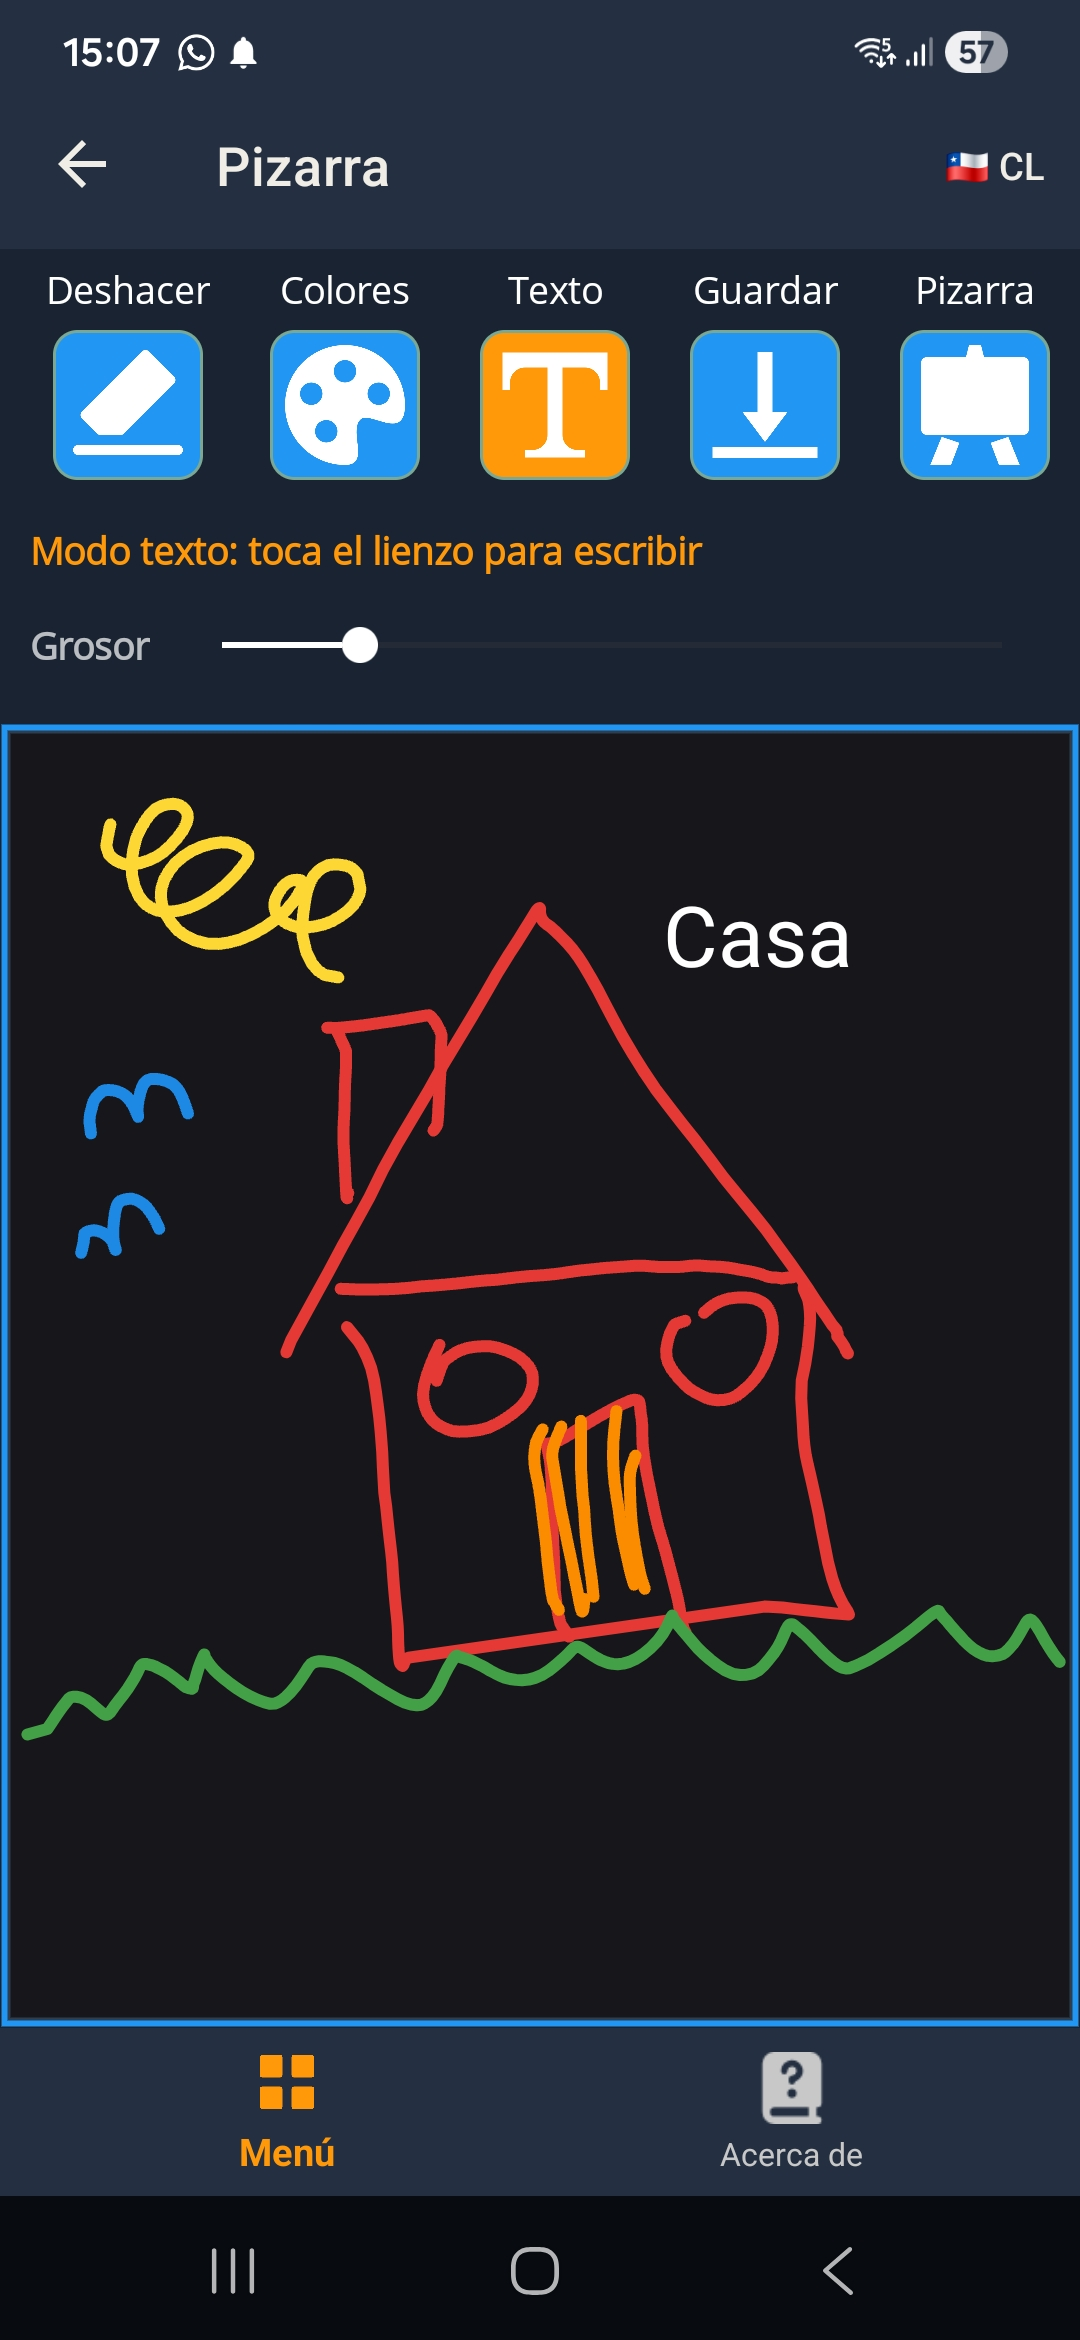
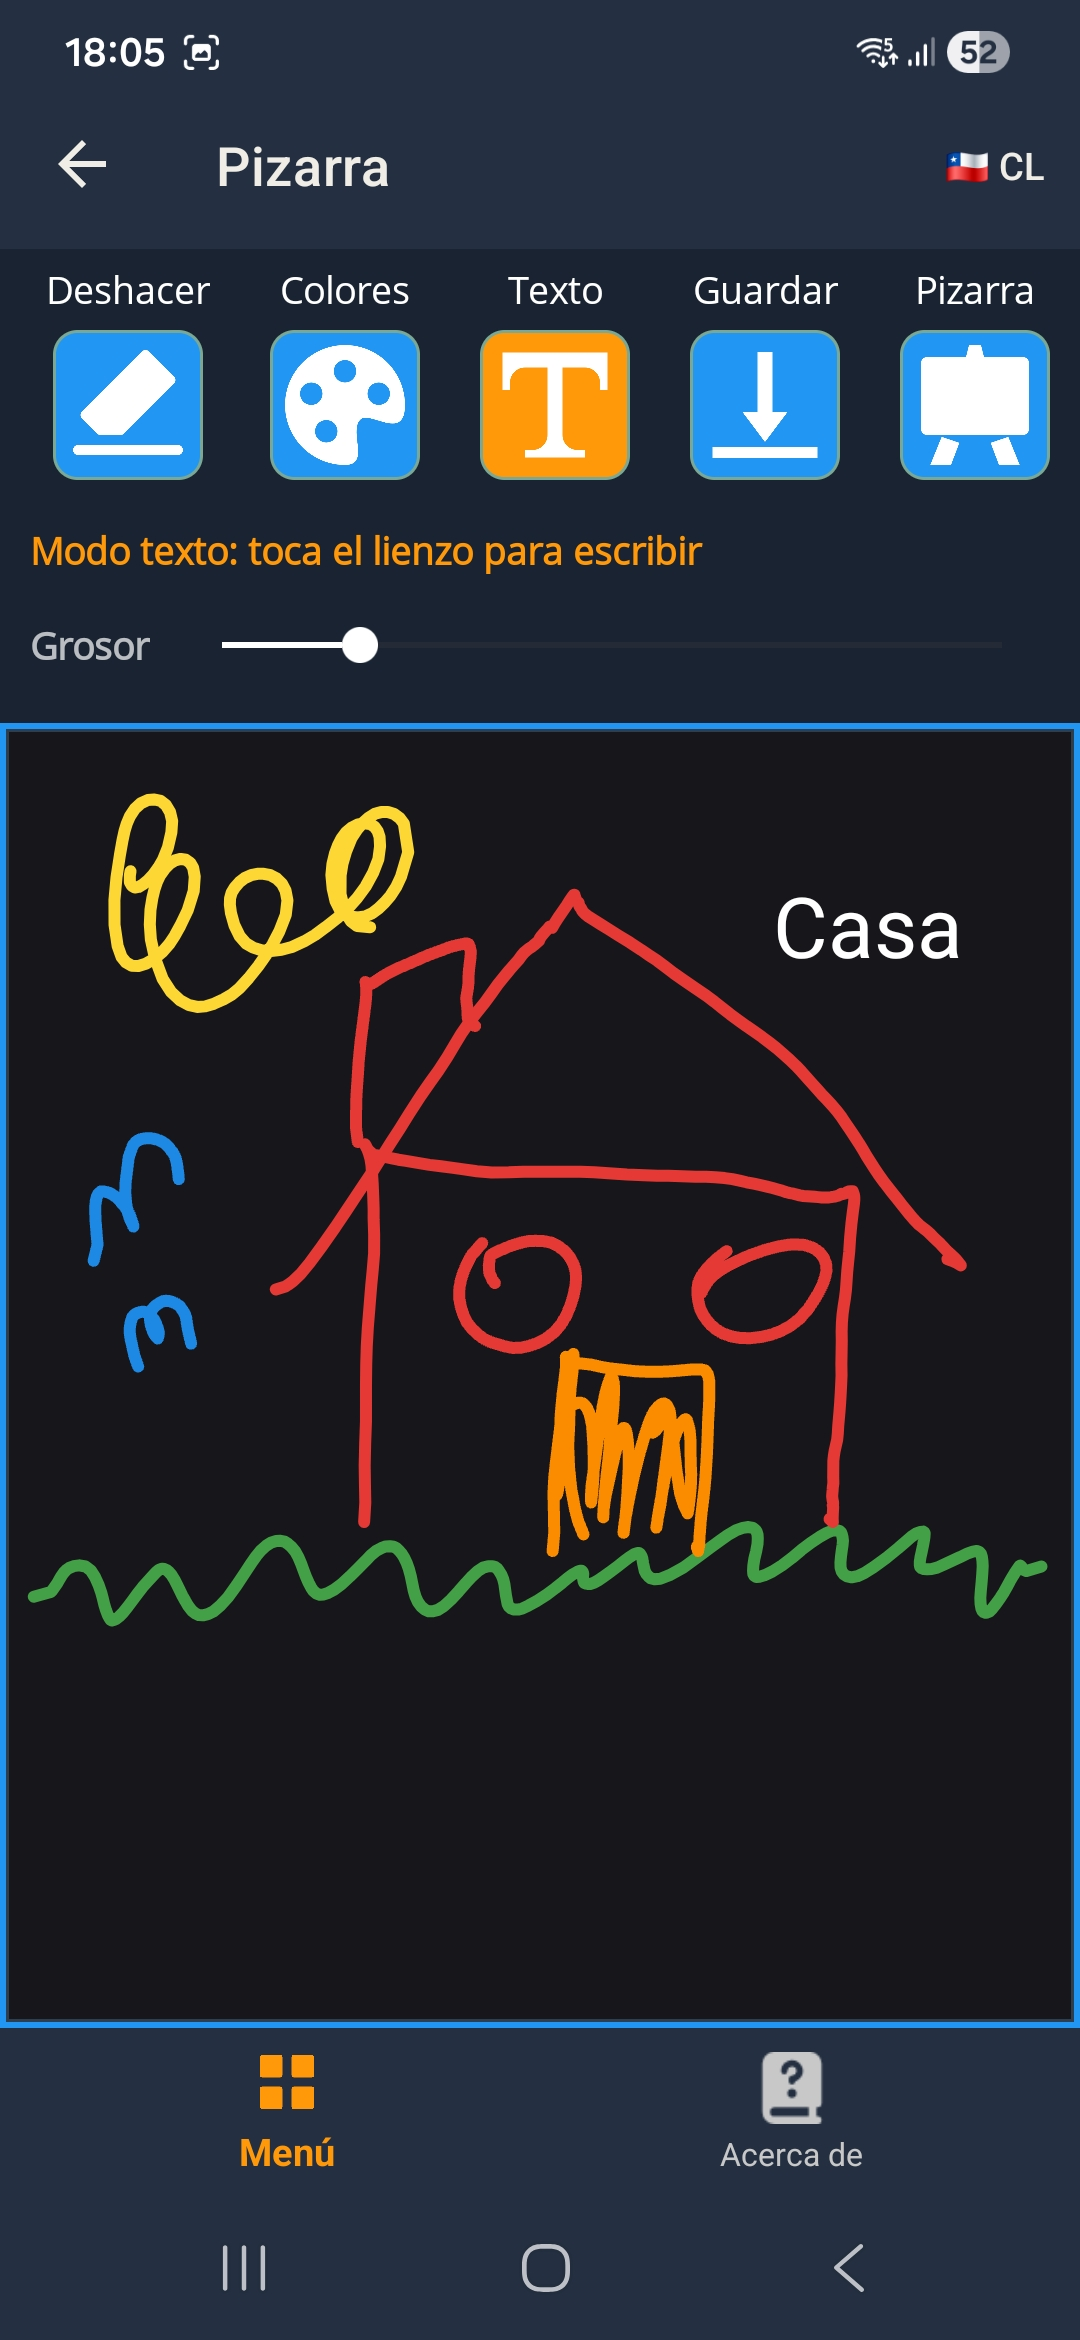
fix(android, release, guide): version 1.10.1 con color de barra inferior consistente
- MainActivity: queda comentado el guardado por API >= 35 para que SetStatusBarColor y
  SetNavigationBarColor (#243042) se apliquen siempre; workaround para la barra inferior
  con otro color en Android 16. Pendiente de validar en API 35/36: edge-to-edge puede
  anular el color y SetNavigationBarColor esta deprecado
  (NavajaSuiza_.NET10/Platforms/Android/MainActivity.cs)
- Version 1.10.1 / versionCode 3 en csproj para el build de prueba interna y cerrada
  (NavajaSuiza_.NET10/NavajaSuiza_.NET10.csproj)
- Guia: capturas actualizadas board_01/02 y notes_01/02/03
  (NavajaSuiza_.NET10/Resources/Raw/guide/board_01.jpg, board_02.jpg, notes_01.jpg,
   notes_02.jpg, notes_03.jpg)
- Verificacion: build net10.0-android Release 0 errores; sin tests (cambio visual/runtime
  para validar en dispositivo)

diff --git a/NavajaSuiza_.NET10/Platforms/Android/MainActivity.cs b/NavajaSuiza_.NET10/Platforms/Android/MainActivity.cs
@@ -11,10 +11,10 @@ public class MainActivity : MauiAppCompatActivity
     {
         base.OnCreate(savedInstanceState);
 
-        if (!OperatingSystem.IsAndroidVersionAtLeast(35))
-        {
-            Window?.SetStatusBarColor(Android.Graphics.Color.ParseColor("#243042"));
-            Window?.SetNavigationBarColor(Android.Graphics.Color.ParseColor("#243042"));
-        }
+        //if (!OperatingSystem.IsAndroidVersionAtLeast(35))
+        //{
+        Window?.SetStatusBarColor(Android.Graphics.Color.ParseColor("#243042"));
+        Window?.SetNavigationBarColor(Android.Graphics.Color.ParseColor("#243042"));
+        //}
     }
 }
